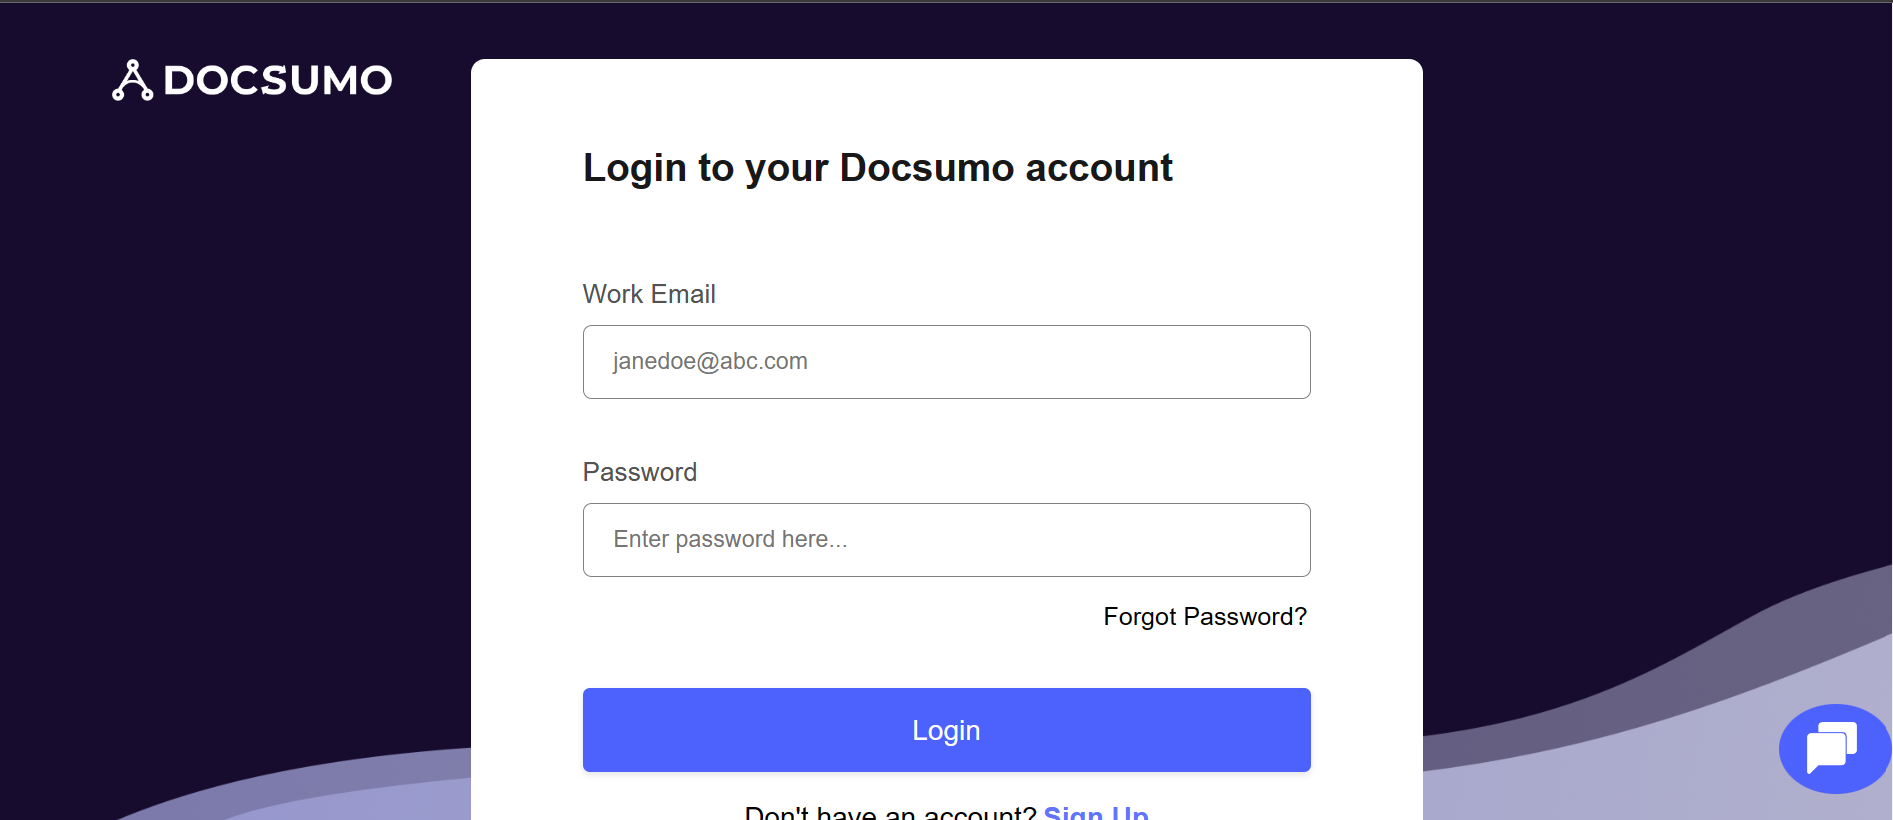
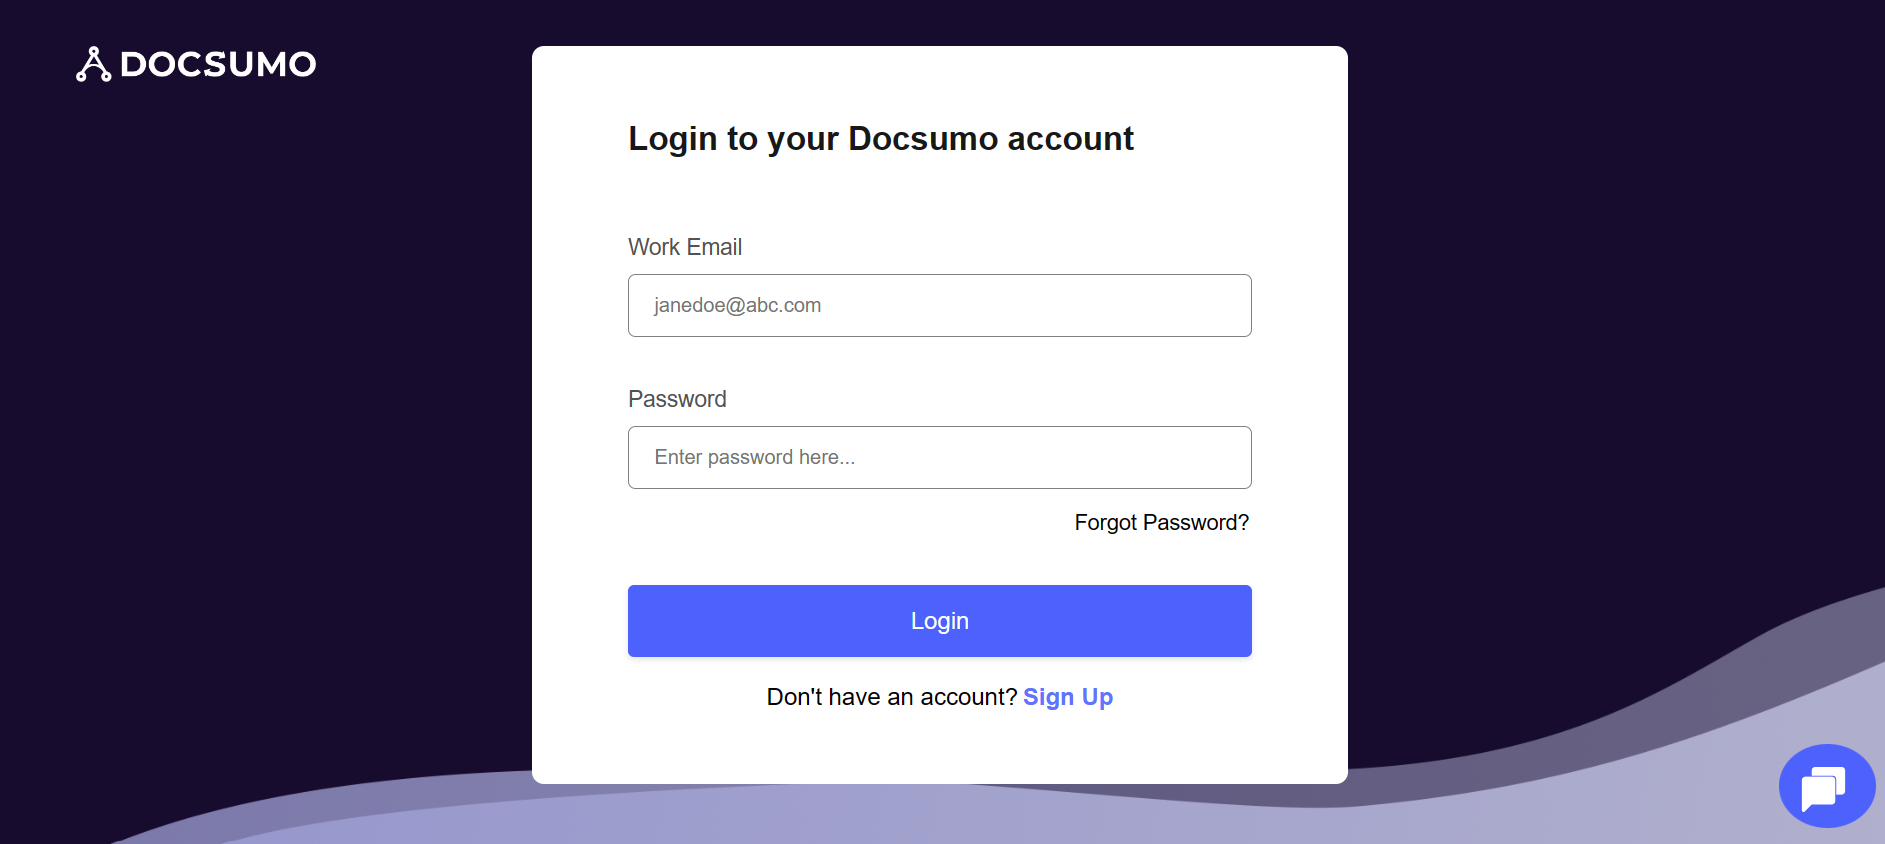
added readme

diff --git a/src/components/LoginPage/LoginPage.css b/src/components/LoginPage/LoginPage.css
@@ -104,6 +104,11 @@
   color: rgb(98, 116, 253);
   font-weight: bolder;
   margin: 0 0 0 0.2rem;
+  text-decoration: none;
+}
+
+.signUpLink:hover{
+  text-decoration: underline;
 }
 
 .signupAccTextContainer {
@@ -162,11 +167,11 @@
 .iconBgColor1 {
   background-color: rgb(77, 97, 252);
   width: 50px;
-  padding: 8px 0 6px 15px;
+  padding: 12px 0 6px 15px;
   border-radius: 50%;
   position: fixed;
   bottom: 1rem;
-  right: 0;
+  right: 1rem;
   cursor: pointer;
   transition: 0.5s;
 }
@@ -180,11 +185,11 @@
 .iconBgColor2 {
   background-color: rgb(77, 97, 252);
   width: 50px;
-  padding: 10px 0 6px 15px;
+  padding: 15px 0 6px 15px;
   border-radius: 50%;
   position: fixed;
   bottom: 1rem;
-  right: 0;
+  right: 1rem;
   cursor: pointer;
   transition: 0.5s;
 }
